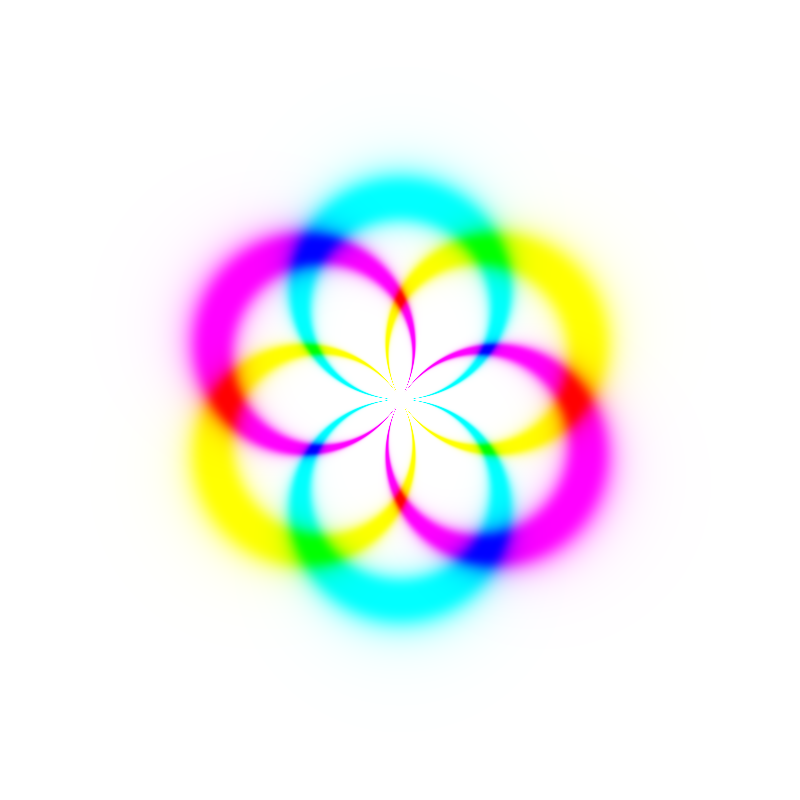
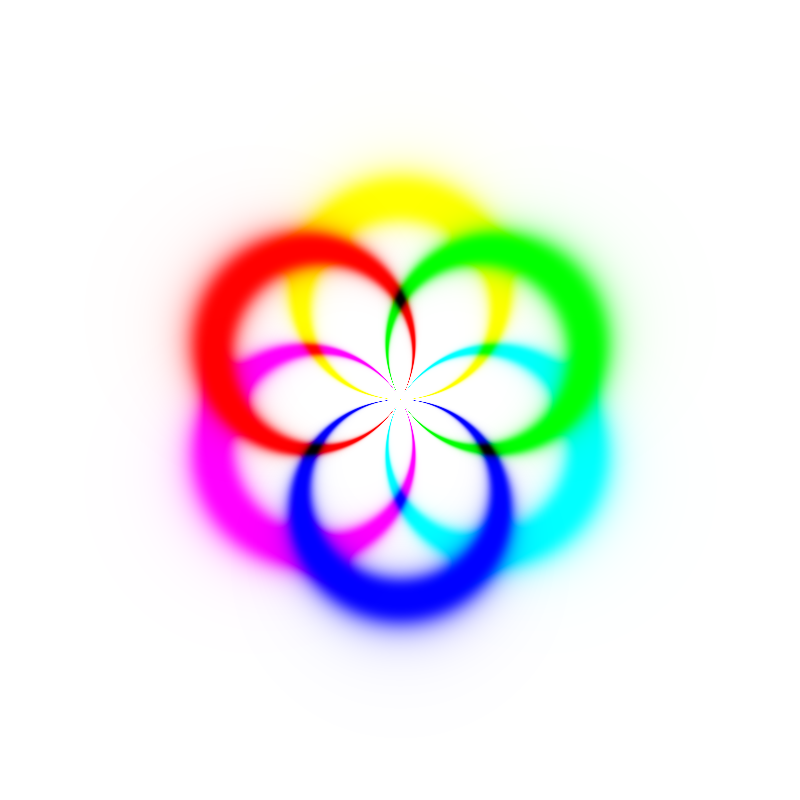
Replace layers with 1 color

Changed region(s): [[0.1875, 0.1875, 0.8125, 0.8125]]

diff --git a/src/fuzzyplot/expr.rs b/src/fuzzyplot/expr.rs
@@ -640,9 +640,8 @@ impl Inst {
             } => {
                 let (src, rest) = buf.split_at_mut(scratch * lanes);
                 let src = &*src;
-                let (spreads, rest) = rest.split_at_mut(2 * lanes);
-                let (zero_spreads, pole_spreads) = spreads.split_at_mut(lanes);
-                let out = &mut rest[(dst - scratch - 2) * lanes..][..2 * lanes];
+                let (norms, rest) = rest.split_at_mut(lanes);
+                let out = &mut rest[(dst - scratch - 1) * lanes..][..2 * lanes];
                 let (zeros, pole_out) = out.split_at_mut(lanes);
                 for out in zeros.iter_mut().chain(pole_out.iter_mut()) {
                     *out = C64::new(f64::INFINITY, 0.0);
@@ -666,23 +665,20 @@ impl Inst {
                         continue;
                     }
                     for lane in 0..lanes {
-                        let p = project(src[slot * lanes + lane]);
-                        let zero = [p, project(C64::new(0.0, 0.0))];
-                        zero_spreads[lane] = C64::new(
-                            sphere_spread(IntoIterator::into_iter(zero), 2.0),
-                            0.0,
-                        );
-                        let pole = [p, [0.0, 0.0, 1.0]];
-                        pole_spreads[lane] = C64::new(
-                            sphere_spread(IntoIterator::into_iter(pole), 2.0),
-                            0.0,
-                        );
+                        let n2 = src[slot * lanes + lane].norm_sqr();
+                        norms[lane] = C64::new(n2, 0.0);
                     }
                     for lane in 0..lanes {
-                        let d = pixel_distance(zero_spreads, width, lane);
+                        let (zero, pole) = spreads(norms[lane].re);
+                        let slope = if zero <= pole {
+                            slope(norms, width, lane, |n2| spreads(n2).0)
+                        } else {
+                            slope(norms, width, lane, |n2| spreads(n2).1)
+                        };
+                        let d = pixel_distance(zero, slope);
                         zeros[lane].re = zeros[lane].re.min(d);
                         if *poles {
-                            let d = pixel_distance(pole_spreads, width, lane);
+                            let d = pixel_distance(pole, slope);
                             pole_out[lane].re = pole_out[lane].re.min(d);
                         }
                     }
@@ -699,31 +695,32 @@ fn closeness(distance: f64, sharpness: f64) -> C64 {
     C64::new(((distance * sharpness).powi(2) + 1.0).powi(-1), 0.0)
 }
 
-fn sphere_spread(
-    points: impl Iterator<Item = [f64; 3]> + Clone,
-    n: f64,
-) -> f64 {
-    let mut mean = [0.0; 3];
-    for p in points.clone() {
-        for (m, p) in mean.iter_mut().zip(p) {
-            *m += p / n;
-        }
+fn spreads(n2: f64) -> (f64, f64) {
+    if n2.is_finite() {
+        (2.0 * n2 / (n2 + 1.0), 2.0 / (n2 + 1.0))
+    } else {
+        (2.0, 0.0)
     }
-    points
-        .map(|p| (0..3).map(|i| (p[i] - mean[i]).powi(2)).sum::<f64>())
-        .sum()
 }
 
-fn pixel_distance(spreads: &[C64], width: usize, lane: usize) -> f64 {
-    let at = |x: usize, y: usize| spreads[y * width + x].re;
+fn slope(
+    norms: &[C64],
+    width: usize,
+    lane: usize,
+    spread: impl Fn(f64) -> f64,
+) -> f64 {
+    let at = |x: usize, y: usize| spread(norms[y * width + x].re);
     let (x, y) = (lane % width, lane / width);
-    let s = at(x, y);
     let gx = at((x + 1).min(width - 1), y) - at(x.saturating_sub(1), y);
     let gy = at(x, (y + 1).min(width - 1)) - at(x, y.saturating_sub(1));
-    if s == 0.0 {
+    gx.hypot(gy)
+}
+
+fn pixel_distance(spread: f64, slope: f64) -> f64 {
+    if spread == 0.0 {
         0.0
     } else {
-        4.0 * s / gx.hypot(gy)
+        4.0 * spread / slope
     }
 }
 
@@ -770,7 +767,8 @@ fn project(z: C64) -> [f64; 3] {
 }
 
 fn sphere_difference(a: C64, b: C64) -> C64 {
-    let (a_inf, b_inf) = (a.is_infinite(), b.is_infinite());
+    let inf = |z: C64| z.re.is_infinite() || z.im.is_infinite();
+    let (a_inf, b_inf) = (inf(a), inf(b));
     if a == b || (a_inf && b_inf) {
         C64::new(0.0, 0.0)
     } else if a_inf {
@@ -987,7 +985,7 @@ impl Compiler {
         let postfix = to_postfix(insert_operators(paren_to_exprs(tokens)?));
         let mut operand = self.compile(postfix)?;
         let (mode, sharpness, poles) = (self.mode, self.sharpness, self.poles);
-        let scratch = self.alloc(2);
+        let scratch = self.alloc(1);
         let arg = operand.range.clone();
         operand = self.emit(2, &[&operand], |dst| Inst::Final {
             arg,

diff --git a/src/main.rs b/src/main.rs
@@ -36,16 +36,6 @@ fn main() -> Result<()> {
     let tile_width = TILE + 2 * halo;
     let lanes = tile_width * tile_width;
 
-    let layers: Vec<Vec<_>> = plots
-        .iter()
-        .map(|plot| {
-            let poles = plot.poles.clone().map(|p| (p, plot.pole_color));
-            std::iter::once((plot.zeros.clone(), plot.zero_color))
-                .chain(poles)
-                .collect()
-        })
-        .collect();
-
     let mut img = RgbImage::new(width, height);
     let row_len = width as usize * 3;
     let strips = Mutex::new(img.chunks_mut(TILE * row_len).enumerate());
@@ -114,13 +104,12 @@ fn main() -> Result<()> {
                             }
                         }
 
-                        for ((plot, scratch), layers) in
-                            plots.iter().zip(&mut scratches).zip(&layers)
+                        for (plot, scratch) in plots.iter().zip(&mut scratches)
                         {
                             let count =
                                 setup::context_count(plot, contexts[0].len());
                             let mut intensities =
-                                vec![0.0_f64; core.len() * layers.len()];
+                                vec![[0.0_f64; 2]; core.len()];
                             for i in 0..count {
                                 for (lane, contexts) in
                                     contexts.iter().enumerate()
@@ -132,12 +121,13 @@ fn main() -> Result<()> {
                                     );
                                 }
                                 plot.program.eval(scratch);
-                                for (&(lane, _), intensities) in core
-                                    .iter()
-                                    .zip(intensities.chunks_mut(layers.len()))
+                                for (&(lane, _), intensities) in
+                                    core.iter().zip(&mut intensities)
                                 {
-                                    for ((range, _), intensity) in
-                                        layers.iter().zip(intensities)
+                                    let ranges = std::iter::once(&plot.zeros)
+                                        .chain(&plot.poles);
+                                    for (range, intensity) in
+                                        ranges.zip(intensities)
                                     {
                                         for value in plot.program.results(
                                             scratch,
@@ -152,21 +142,11 @@ fn main() -> Result<()> {
                                     }
                                 }
                             }
-                            for (&(_, offset), intensities) in core
-                                .iter()
-                                .zip(intensities.chunks(layers.len()))
+                            for (&(_, offset), &[zero, pole]) in
+                                core.iter().zip(&intensities)
                             {
                                 let pixel = &mut strip[offset..offset + 3];
-                                for ((_, color), intensity) in
-                                    layers.iter().zip(intensities)
-                                {
-                                    for (value, filter) in
-                                        pixel.iter_mut().zip(color)
-                                    {
-                                        let amount = intensity * (1.0 - filter);
-                                        *value -= (amount as u8).min(*value);
-                                    }
-                                }
+                                ink(pixel, plot.color, zero, pole);
                             }
                         }
                     }
@@ -179,4 +159,11 @@ fn main() -> Result<()> {
         format!("Couldn't save file '{}'", args.outfile.display())
     })?;
     Ok(())
+}
+
+fn ink(pixel: &mut [u8], color: [f64; 3], zero: f64, pole: f64) {
+    for (value, filter) in pixel.iter_mut().zip(color) {
+        let amount = zero * (1.0 - filter) + pole * filter;
+        *value -= (amount as u8).min(*value);
+    }
 }

diff --git a/src/fuzzyplot/setup.rs b/src/fuzzyplot/setup.rs
@@ -167,8 +167,7 @@ pub fn make_plots(
             program: compiler.finish(),
             zeros,
             poles,
-            zero_color: hue(angle),
-            pole_color: hue(angle + 180.0),
+            color: hue(angle),
         };
         plots.push(plot);
     }

diff --git a/src/fuzzyplot/mod.rs b/src/fuzzyplot/mod.rs
@@ -11,8 +11,7 @@ pub struct Plot {
     pub program: expr::Program,
     pub zeros: Range<usize>,
     pub poles: Option<Range<usize>>,
-    pub zero_color: [f64; 3],
-    pub pole_color: [f64; 3],
+    pub color: [f64; 3],
 }
 
 #[derive(Debug)]

diff --git a/README.md b/README.md
@@ -61,9 +61,11 @@ By default, `fuzzyplot` divides the difference in the equation by the magnitude 
 
 `fuzzyplot` supports up to 3 equations per image, passed as arguments one after the other. When only 1 equation is given, it is colored red, but if 2 or 3 are given, they are colored cyan, magenta, yellow, in that order. The colors mix together like colored filters.
 
-`fuzzyplot "±r=sin(t)" "±r=sin(t+2pi/3)" "±r=sin(t+4pi/3)" -A`
+`fuzzyplot "r=sin(t-pi/3)" "r=sin t" "r=sin(t+pi/3)" -A -q`
 
 ![](images/flower.png)
+
+![](images/eqn8.svg)
 
 `fuzzyplot "1/sin (y+1 = sin x^2) + tan r" -z -3`
 
@@ -76,8 +78,6 @@ By default, `fuzzyplot` divides the difference in the equation by the magnitude 
 `fuzzyplot "acos 3r = gamma(3 / (2 sqrt -y))" -A`
 
 ![](images/sunset.png)
-
-![](images/eqn8.svg)
 
 `fuzzyplot "abs x ^ tan r" -A -z -3`
 
